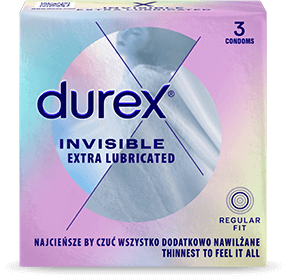
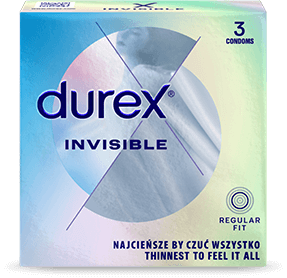
Revert "Merge pull request #1 from eStoreLabs/fix-animations"
This reverts commit 930a57ad6ddd8c1c8ad50907e93c62bb03b4f680, reversing
changes made to 6519cf50aaac99ebd719fe009af4b3029e3b4da4.

diff --git a/assets/styles/style.css b/assets/styles/style.css
@@ -174,7 +174,6 @@ section {
 
 #es-durex.es-durex .es-kv__container {
   background-image: url("../img/bg.png");
-  background-size: cover;
   padding: 3rem;
 }
 
@@ -193,15 +192,6 @@ section {
 
 #es-durex.es-durex .es-kv__title--second {
   font-family: "One Night Sans Extended Thin", sans-serif;
-}
-#es-durex.es-durex .es-kv__text {
-  font-family: "One Night Sans Extended", sans-serif;
-  line-height: 1;
-  color: var(--es-navy-txt);
-  text-align: center;
-  text-transform: uppercase;
-  border-bottom: 3px solid var(--es-navy-txt);
-  padding-bottom: 5px;
 }
 
 #es-durex.es-durex .es-kv__packshot {
@@ -264,14 +254,6 @@ section {
   #es-durex.es-durex .es-kv__title--second {
     font-size: 30px;
     margin-left: -2ch;
-  }
-  #es-durex.es-durex .es-kv__text {
-    position: absolute;
-    right: 0;
-    top: 50%;
-    width: 31%;
-    text-align: left;
-    font-size: 18px;
   }
   #es-durex.es-durex .es-kv__packshot {
     position: absolute;
@@ -757,7 +739,6 @@ section {
   rotate: 90deg;
   width: 32px;
   height: 32px;
-  z-index: 1;
 }
 #es-durex.es-durex .es-tip__container {
   display: flex;

diff --git a/index.html b/index.html
@@ -23,7 +23,6 @@
             </span>
             by czuć wszystko
           </h2>
-          <p class="es-kv__text">Dodatkowo nawilżane</p>
         </div>
         <div class="es-kv__packshot">
           <img src="/assets/img/packshot.png" alt="" class="es-kv__img es-kv__img-packshot" />
@@ -47,7 +46,7 @@
           <div class="es-feature__icon">
             <img src="./assets/img/icon-2.svg" alt="" class="es-feature__img" />
           </div>
-          <p class="es-feature__text"><strong class="es-feature__text--bold">dodatkowy</strong> lubrykant</p>
+          <p class="es-feature__text"><strong class="es-feature__text--bold">lubrykant</strong> silikonowy</p>
         </div>
         <div class="es-features__feature">
           <div class="es-feature__icon">

diff --git a/assets/js/open.js b/assets/js/open.js
@@ -4,8 +4,8 @@ const windowHeight = window.innerHeight;
 
 function handleScroll() {
   const scrollPosition = window.scrollY;
-  const maxMarginBottom = -100;
-  const minMarginBottom = 35;
+  const maxMarginBottom = -150;
+  const minMarginBottom = -5;
   const maxScroll = document.documentElement.scrollHeight - window.innerHeight;
   const scrollPercentage = scrollPosition / maxScroll;
   const margin = ((1 - scrollPercentage) * (maxMarginBottom - minMarginBottom)) + minMarginBottom;

diff --git a/assets/js/animations.min.js b/assets/js/animations.min.js
@@ -80,13 +80,3 @@ for (let a = 0; a < revealBenefits.length; a++)
   })
     .setClassToggle(revealBenefits[a], "visible")
     .addTo(controller);
-
-const chartContainer = document.querySelector(".es-info__chart-container");
-const chartContainerScene = new ScrollMagic.Scene({
-  triggerElement: chartContainer,
-  offset: 500,
-  triggerHook: 1,
-  reverse: false,
-})
-  .setClassToggle(chartContainer, "animate")
-  .addTo(controller);

diff --git a/README.md b/README.md
@@ -1,10 +1,10 @@
 # Live (master)
-https://deft-licorice-fe5eb3.netlify.app/
+https://gentle-lollipop-7012db.netlify.app/
 
 # Design
-[link](https://drive.google.com/drive/folders/1kpR9wR2C_fIbSBJFGdoXgAT9g_3PsOyc)
+[link](https://drive.google.com/drive/folders/1q2CFXTNXL_uhUCIutQBPM_lCWsb0yIBw)
 
-![image](https://github.com/eStoreLabs/230524-RB-78-Durex-Invisible-Lubricated-3-MASTER/assets/130984276/3f6d8b3d-f906-42b4-83a8-854b40f78470)
+![image](https://github.com/eStoreLabs/230524-RB-78-Durex-Invisible-Regular-MASTER/assets/130984276/de901a9f-0e6f-4b39-90c2-e3556e930a12)
 
 ![image](https://github.com/eStoreLabs/230524-RB-78-Durex-Invisible-Regular-MASTER/assets/130984276/1ff8cf6e-a68a-4a40-9677-a02ca186dbac)
 
